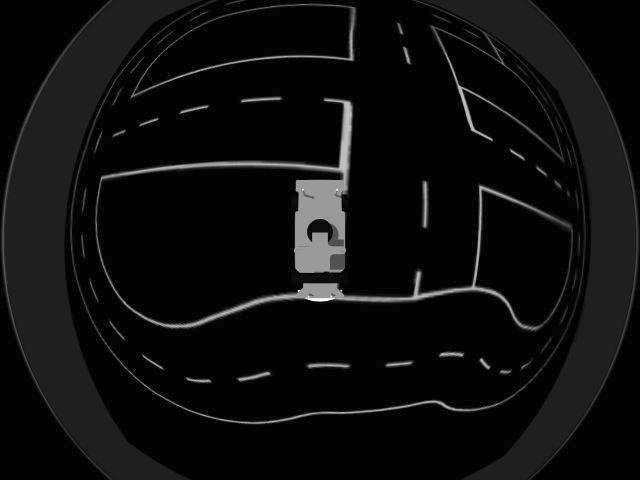
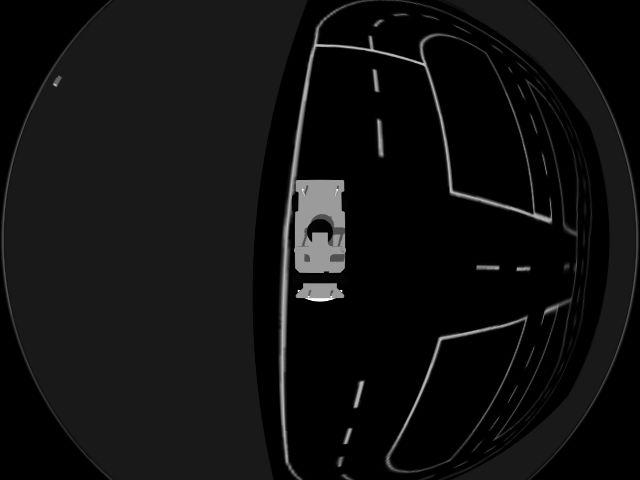
yo

diff --git a/catkin_ws_user/src/test/src/test_main.cpp b/catkin_ws_user/src/test/src/test_main.cpp
@@ -5,11 +5,43 @@
  *      Author: sveb36
  */
 
+
+#include <stdio.h>
 #include <iostream>
+#include <stdio.h>
+#include <iostream>
+#include "opencv2/core/core.hpp"
+#include "opencv2/highgui/highgui.hpp"
+#include "opencv2/imgproc/imgproc.hpp"
+
+using namespace std;
+using namespace cv;
 
 
 int main()
 {
-	std::cout << "cookies are good! \n";
+	Mat img_1 = imread( "../../../../localization/captures/Lab_map_600x400_cropped.png", IMREAD_GRAYSCALE );
+	Mat img_2 = imread( "../../../../localization/captures/undistorted_screenshot_25.05.2018.png", IMREAD_GRAYSCALE );
 
+    namedWindow( "img_1", CV_WINDOW_AUTOSIZE );
+    imshow( "img_1", img_1 );
+    namedWindow( "img_2", CV_WINDOW_AUTOSIZE );
+    imshow( "img_2", img_2 );
+
+    Mat edge1, draw1;
+    Canny( img_1, edge1, 50, 150, 3);
+
+    edge1.convertTo(draw1, CV_8U);
+    namedWindow("image1", CV_WINDOW_AUTOSIZE);
+    imshow("image1", draw1);
+
+    Mat edge2, draw2;
+    Canny( img_2, edge2, 50, 150, 3);
+
+    edge2.convertTo(draw2, CV_8U);
+    namedWindow("image2", CV_WINDOW_AUTOSIZE);
+    imshow("image2", draw2);
+
+    waitKey(0);
+    return 0;
 }
